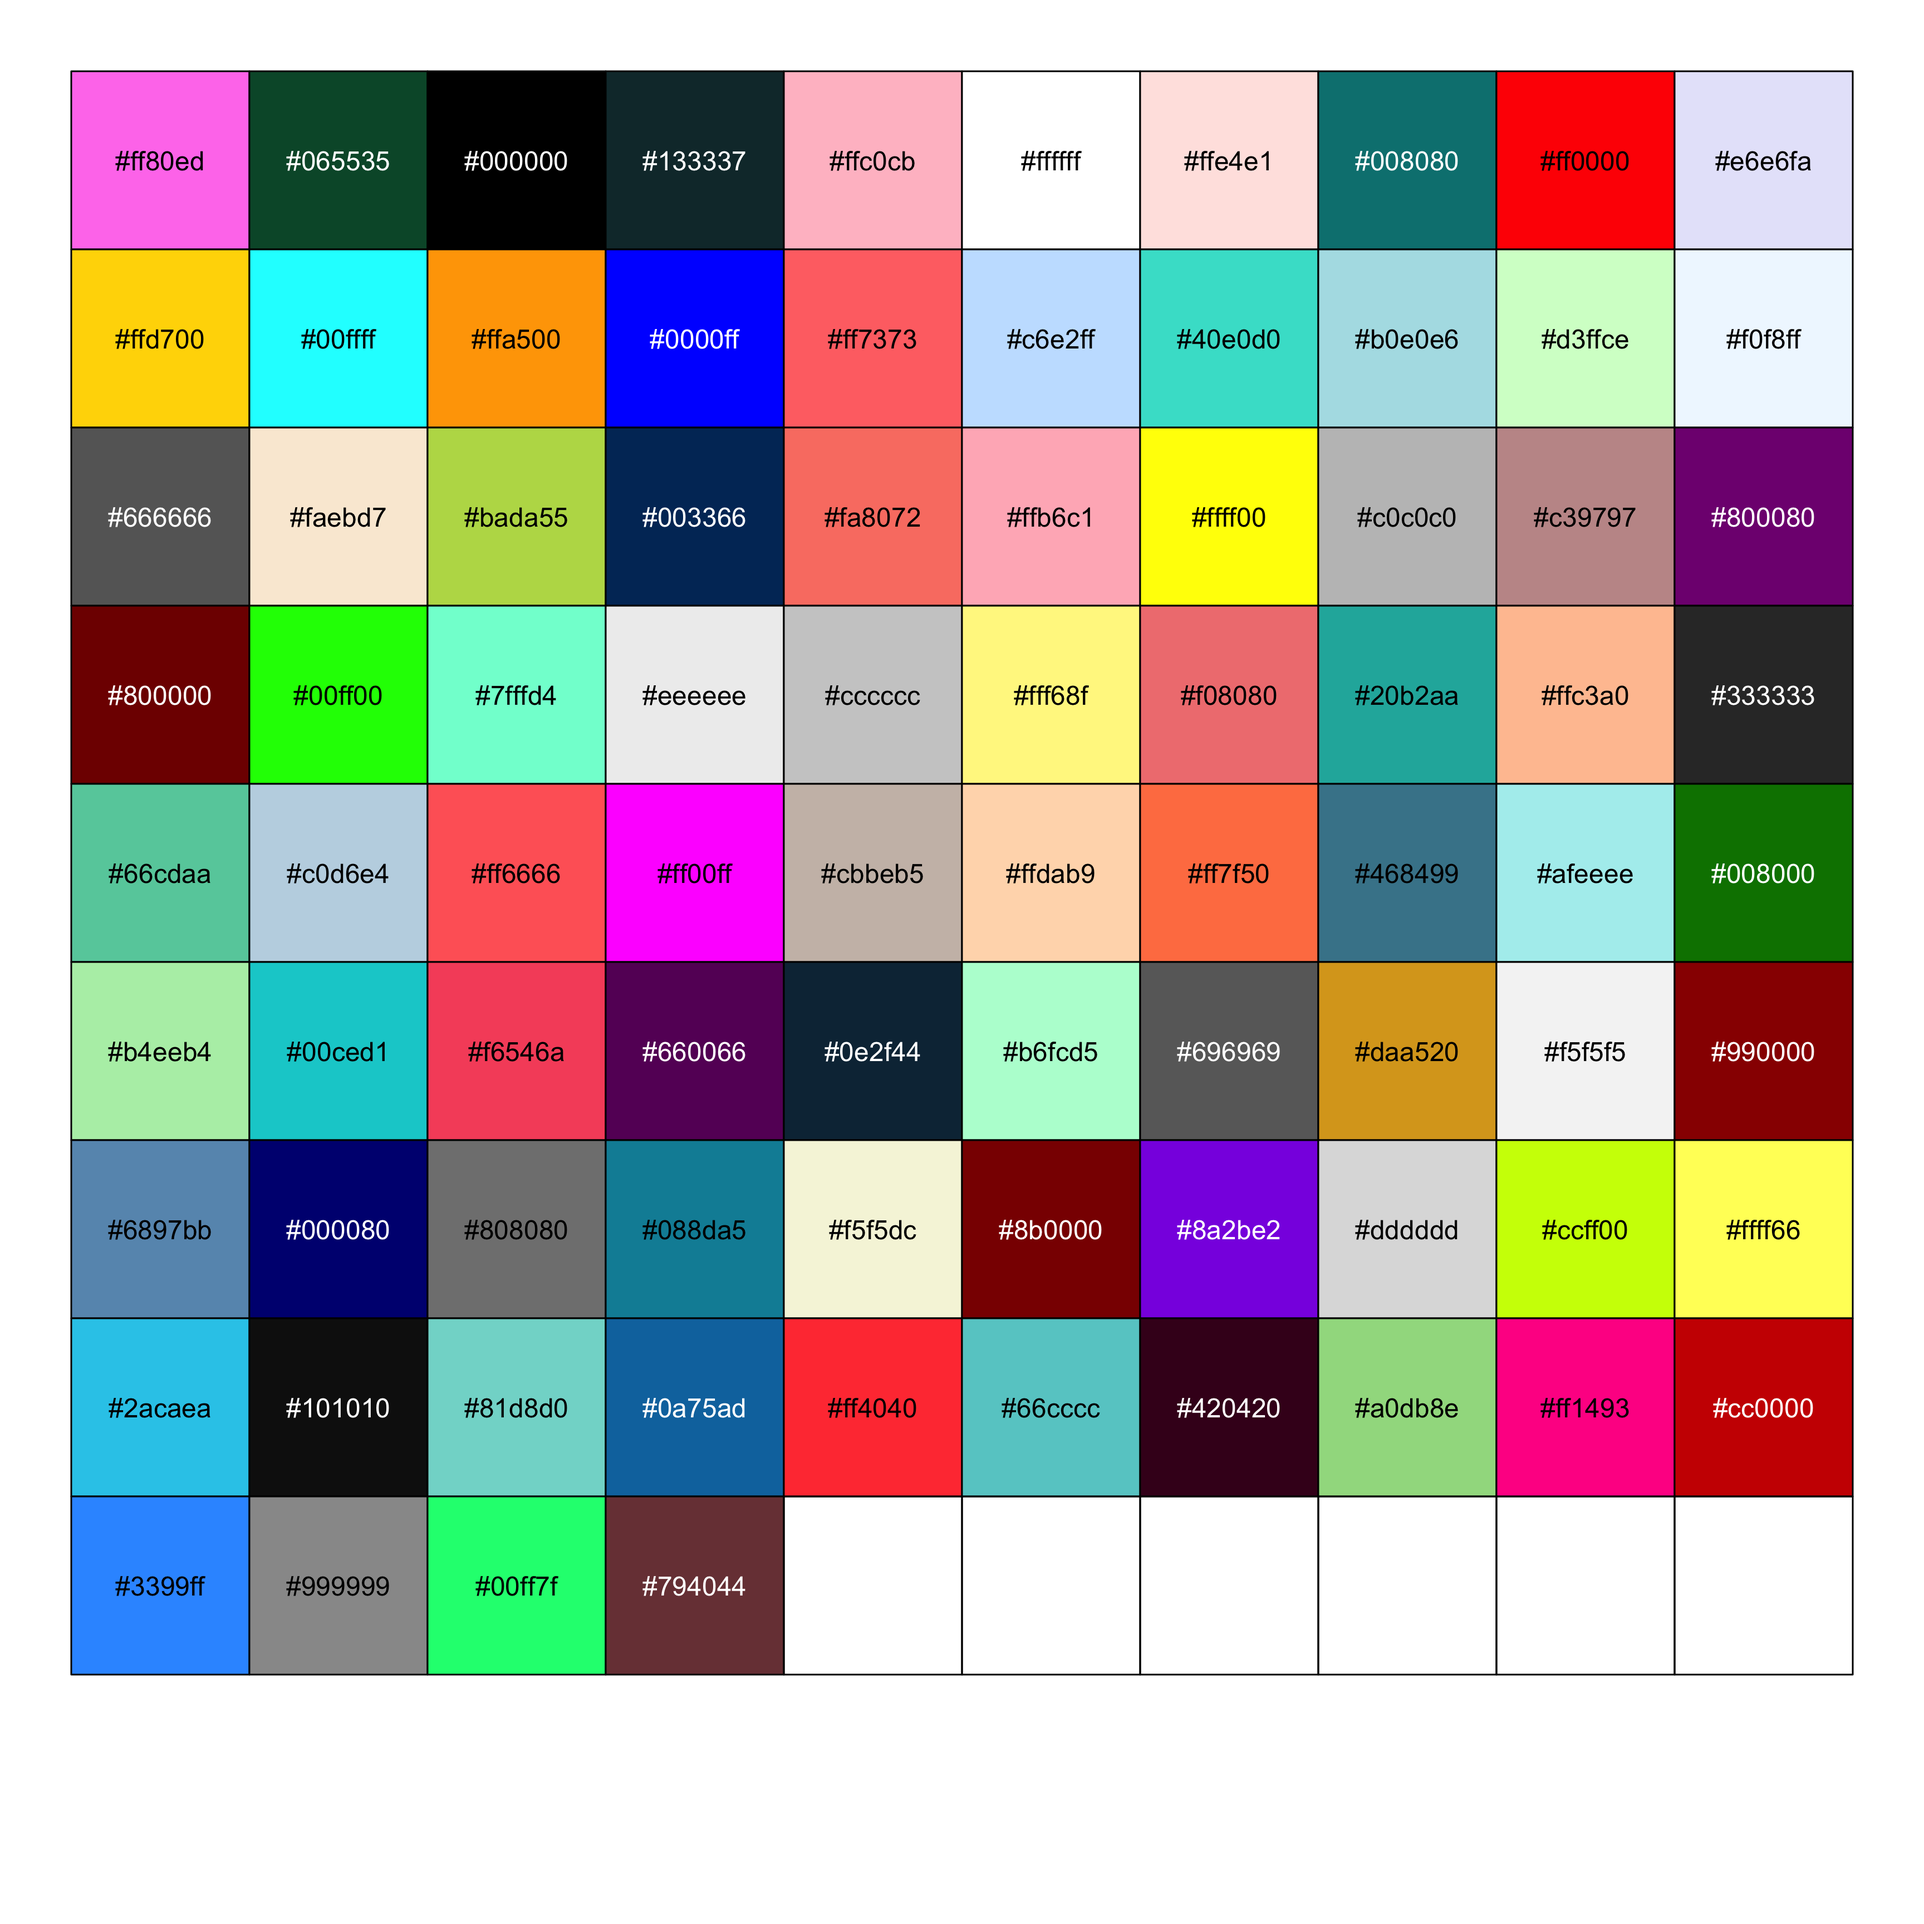
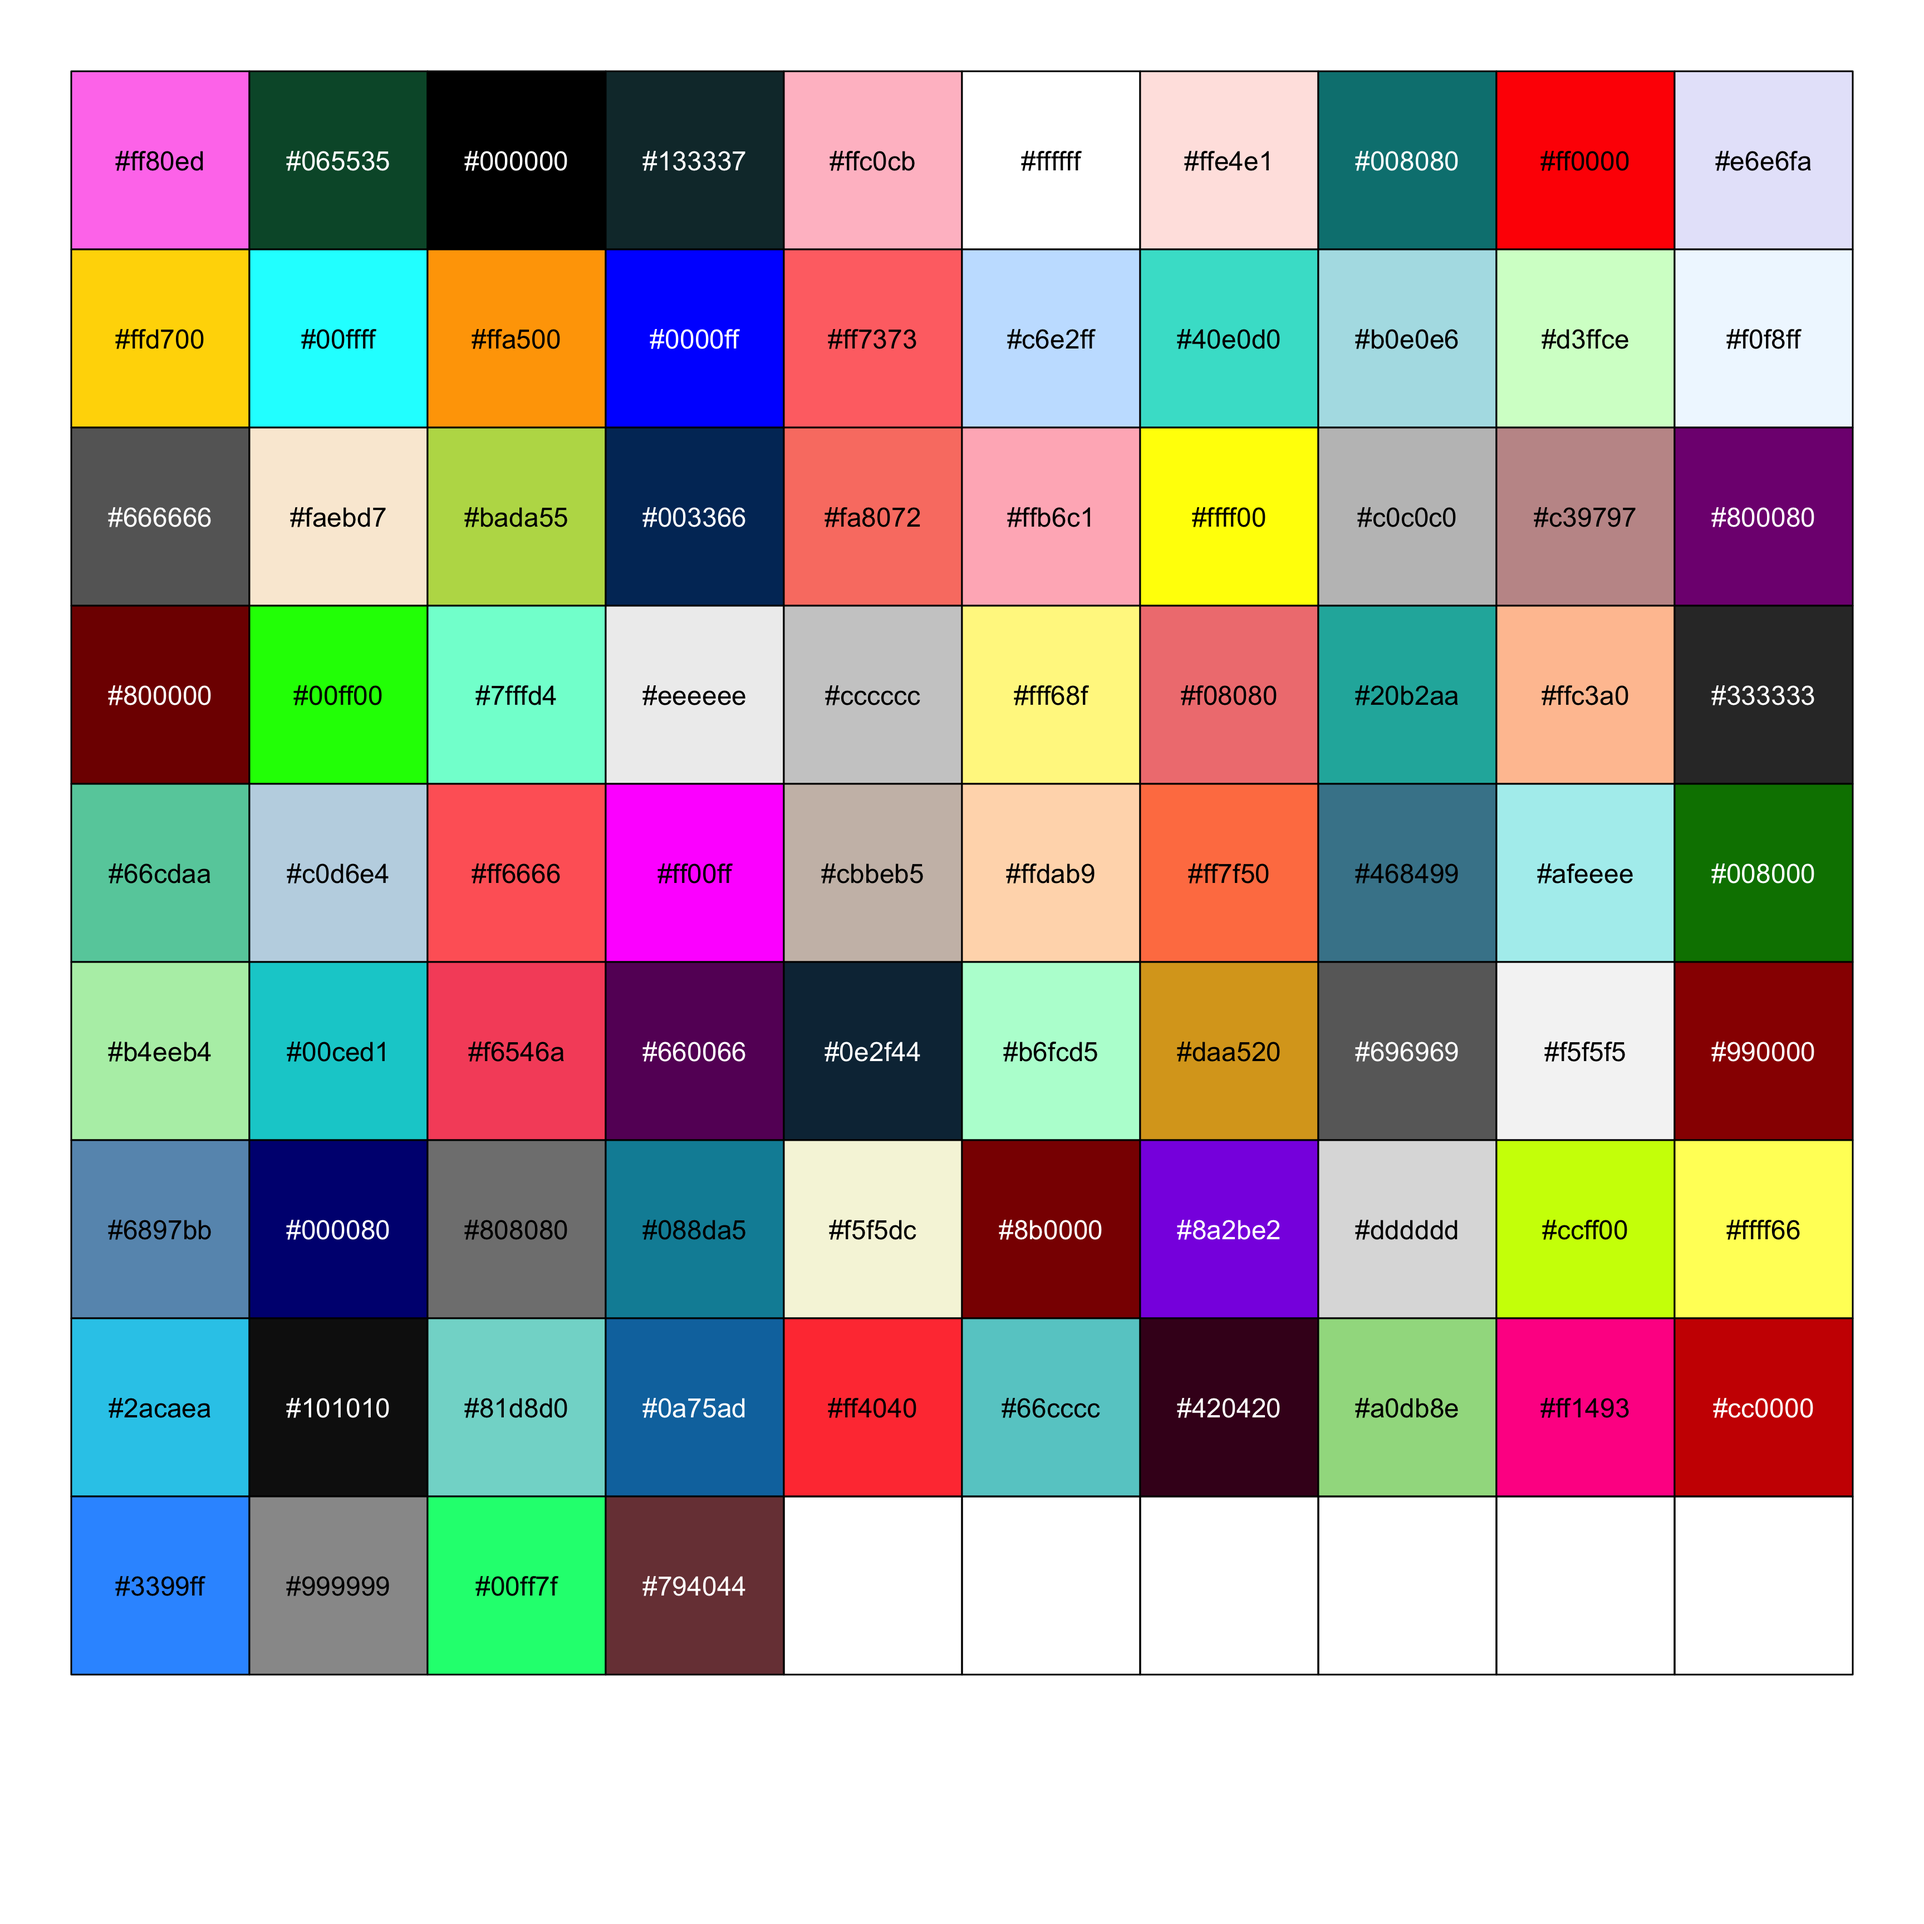
update news and comments

Changed region(s): [[0.5938, 0.5, 0.7812, 0.5938]]

diff --git a/README.md b/README.md
@@ -7,8 +7,8 @@
 
 [![CRAN
 status](https://www.r-pkg.org/badges/version/colorhex)](https://CRAN.R-project.org/package=colorhex)
-[![R-CMD-check](https://github.com/Athanasiamo/colorhex/workflows/R-CMD-check/badge.svg)](https://github.com/Athanasiamo/colorhex/actions)
-[![R-CMD-check](https://github.com/Athanasiamo/colorhex/actions/workflows/R-CMD-check.yaml/badge.svg)](https://github.com/Athanasiamo/colorhex/actions/workflows/R-CMD-check.yaml)
+[![R-CMD-check](https://github.com/drmowinckels/colorhex/workflows/R-CMD-check/badge.svg)](https://github.com/drmowinckels/colorhex/actions)
+[![R-CMD-check](https://github.com/drmowinckels/colorhex/actions/workflows/R-CMD-check.yaml/badge.svg)](https://github.com/drmowinckels/colorhex/actions/workflows/R-CMD-check.yaml)
 <!-- badges: end -->
 
 The goal of colorhex is to create an interface to
@@ -29,7 +29,7 @@ You can install the development version from
 
 ``` r
 # install.packages("devtools")
-devtools::install_github("Athanasiamo/colorhex", ref = "main")
+devtools::install_github("drmowinckels/colorhex", ref = "main")
 ```
 
 ## Example
@@ -64,7 +64,7 @@ x
 #> [36] "#fff68f" "#f08080" "#20b2aa" "#ffc3a0" "#333333" "#66cdaa" "#c0d6e4"
 #> [43] "#ff6666" "#ff00ff" "#cbbeb5" "#ffdab9" "#ff7f50" "#468499" "#afeeee"
 #> [50] "#008000" "#b4eeb4" "#00ced1" "#f6546a" "#660066" "#0e2f44" "#b6fcd5"
-#> [57] "#696969" "#daa520" "#f5f5f5" "#990000" "#6897bb" "#000080" "#808080"
+#> [57] "#daa520" "#696969" "#f5f5f5" "#990000" "#6897bb" "#000080" "#808080"
 #> [64] "#088da5" "#f5f5dc" "#8b0000" "#8a2be2" "#dddddd" "#ccff00" "#ffff66"
 #> [71] "#2acaea" "#101010" "#81d8d0" "#0a75ad" "#ff4040" "#66cccc" "#420420"
 #> [78] "#a0db8e" "#ff1493" "#cc0000" "#3399ff" "#999999" "#00ff7f" "#794044"

diff --git a/cran-comments.md b/cran-comments.md
@@ -1,18 +1,16 @@
 ## Test environments
-* local R installation, R 4.0.2
-* ubuntu 16.04 (on travis-ci), R 4.0.2
+* local R installation, R 4.3.0
 * win-builder (devel)
 * github actions:
+  - {os: macos-latest,   r: 'release'}
   - {os: windows-latest, r: 'release'}
-  - {os: macOS-latest, r: 'release'}
-  - {os: ubuntu-20.04, r: 'release', rspm: "https://packagemanager.rstudio.com/cran/__linux__/focal/latest"}
-  - {os: ubuntu-20.04, r: 'devel', rspm: "https://packagemanager.rstudio.com/cran/__linux__/focal/latest"}
+  - {os: ubuntu-latest,   r: 'devel', http-user-agent: 'release'}
+  - {os: ubuntu-latest,   r: 'release'}
+  - {os: ubuntu-latest,   r: 'oldrel-1'}
 
 
 ## R CMD check results
 
 0 errors | 0 warnings | 1 note
 
-* This is a new release.
-* added `on.exit()` before changing `par()`
-* added 'https:' to url in DESCRIPTION
+* fixed url in DESCRIPTION as per e-mail notification

diff --git a/NEWS.md b/NEWS.md
@@ -1,3 +1,8 @@
+# colorhex 0.1.2
+- fix links in DESCRIPTION to new standard
+- update github actions to newer versions
+- fixed urls to new github username
+
 # colorhex 0.1.1
 - cran submission
 
